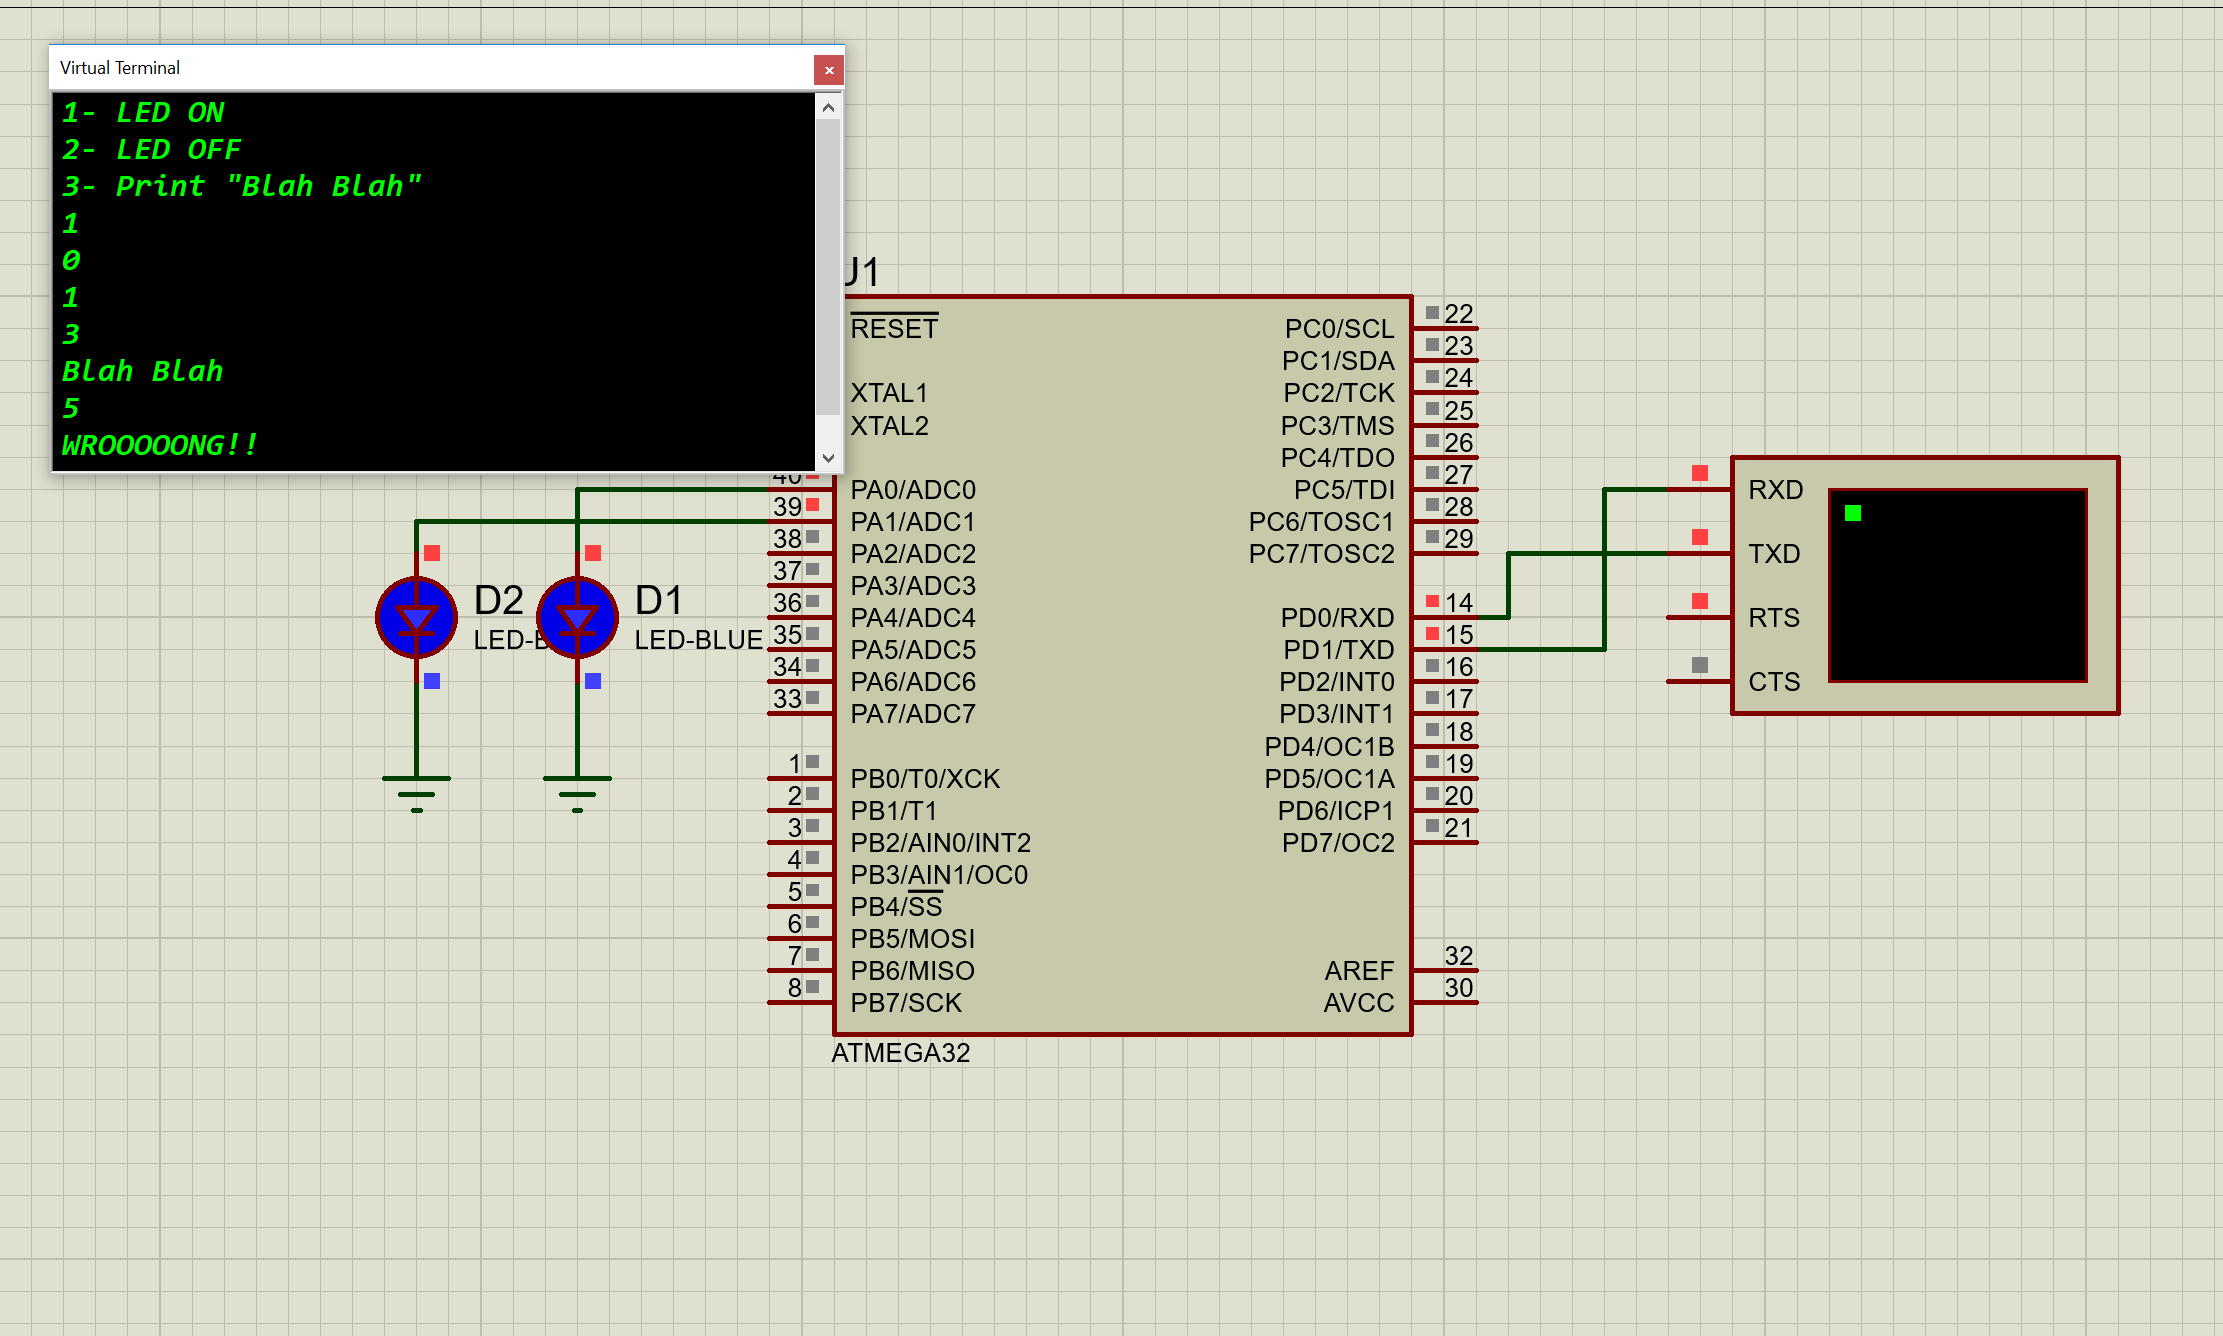
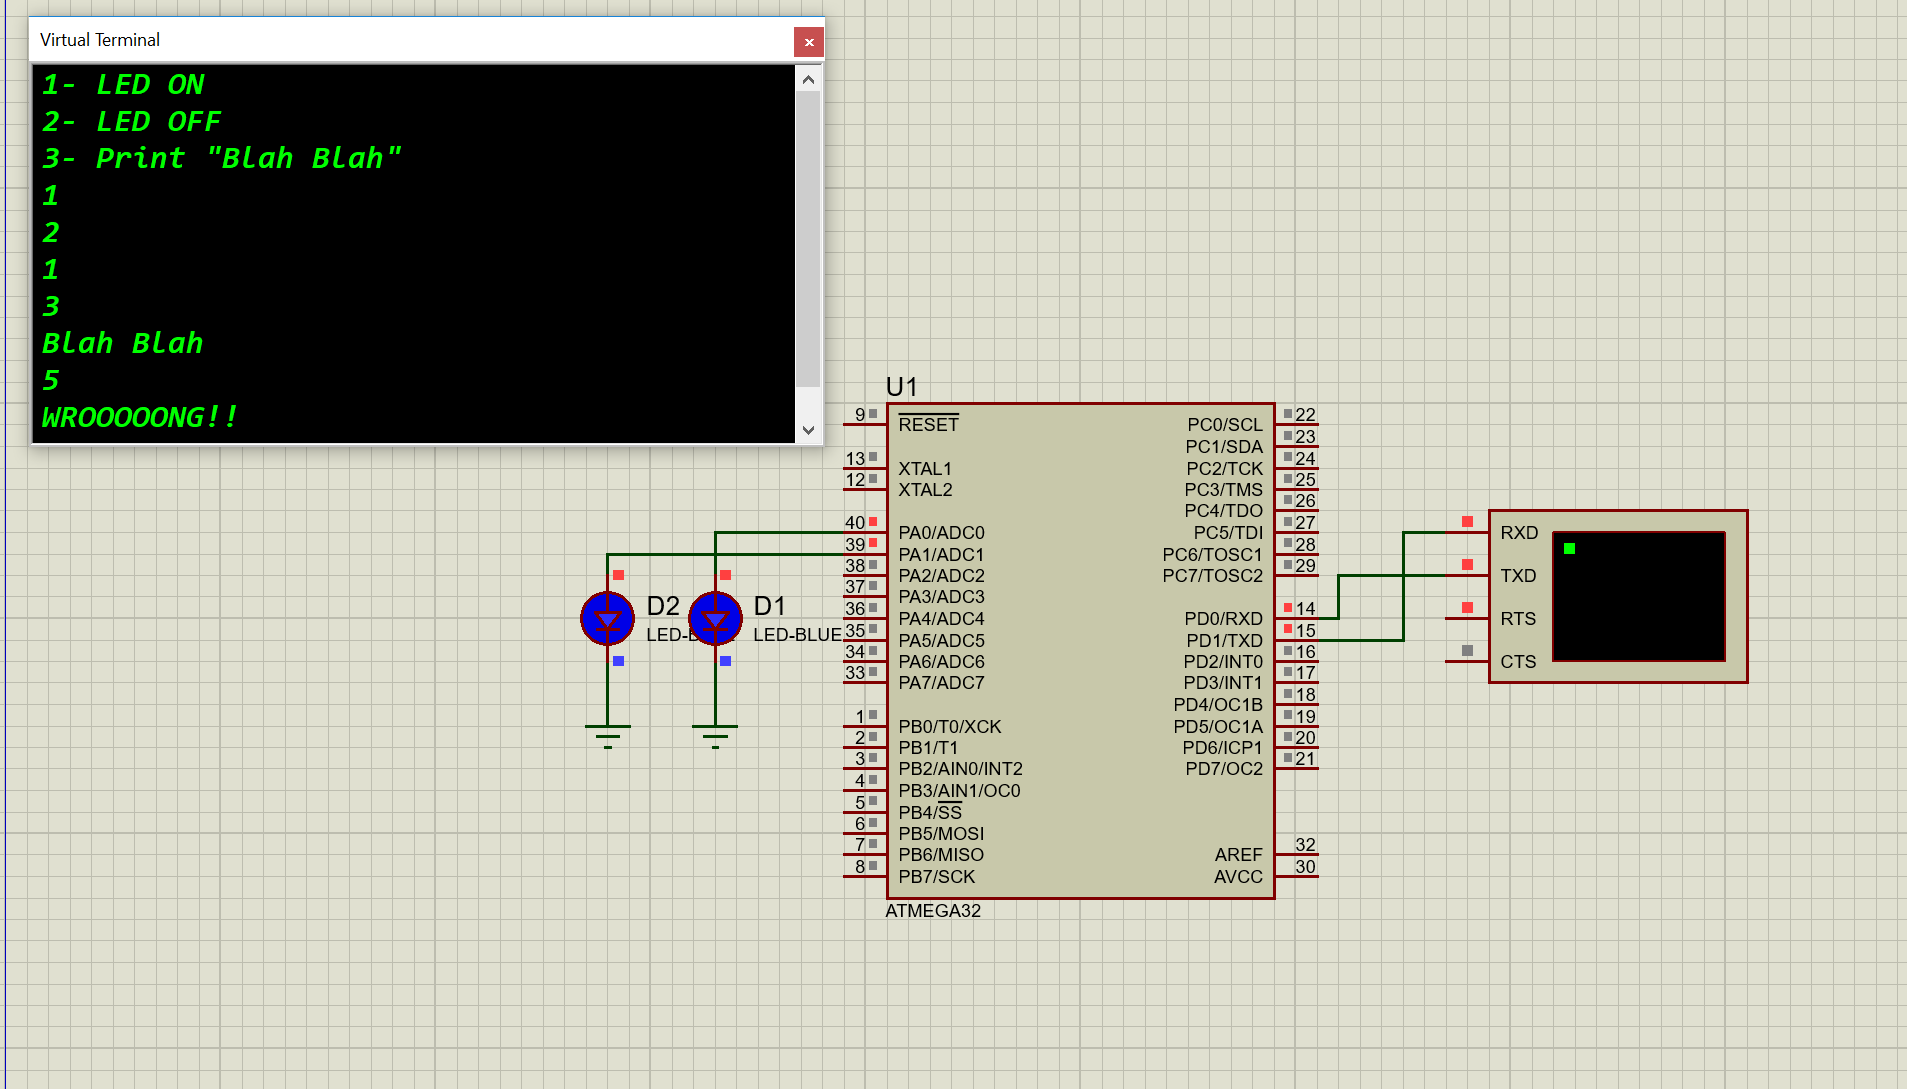
typoes everywhere, my friend!

Changed region(s): [[0.0, 0.0, 1.0, 1.0]]

diff --git a/main.c b/main.c
@@ -12,7 +12,7 @@
    uart_transmit_string("2- LED OFF");
    uart_transmit(13);
    uart_transmit_string("3- Print \"Blah Blah\"");
-   
+
    while(1){
      uart_transmit(13);
      temp_data=uart_receive();
@@ -21,7 +21,7 @@
      if(temp_data=='1'){
        PORTA|=(1<<0)|(1<<1);
      }
-     else if(temp_data=='0'){
+     else if(temp_data=='2'){
        PORTA&=~((1<<0)|(1<<1));
      }
      else if(temp_data=='3'){

diff --git a/README.md b/README.md
@@ -3,7 +3,7 @@ UART communication Protocol
 
 Introduction
 ------------
-Universal asynchronous receiver-transmitter (UART) implementation and testing it with some simple proteus simulation on Atmega32 with the AVR toolchain.
+Universal asynchronous receiver-transmitter (UART) protocol implementation and testing it with some simple proteus simulation on Atmega32 with the AVR toolchain.
 
 Hardware
 --------
